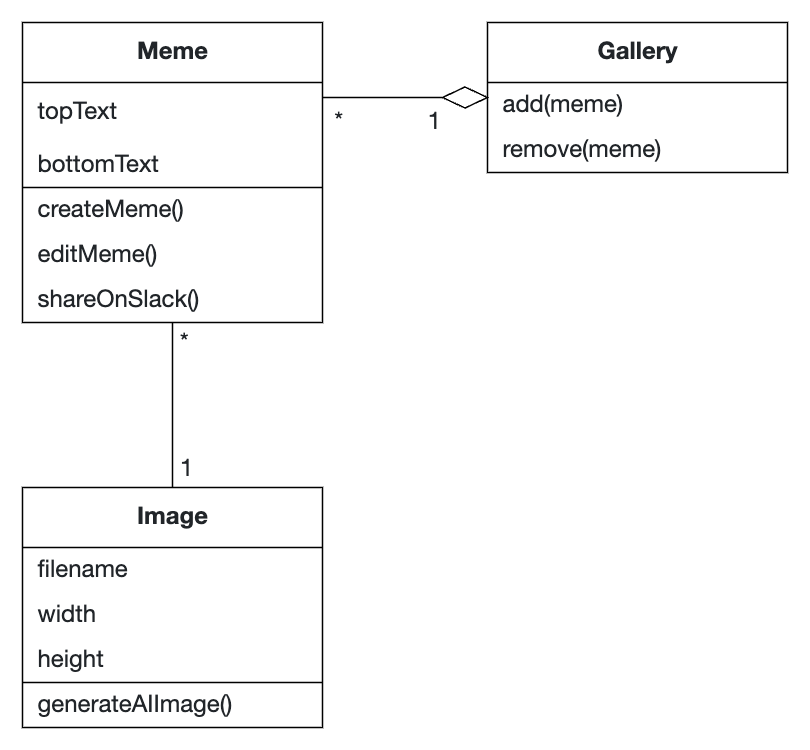
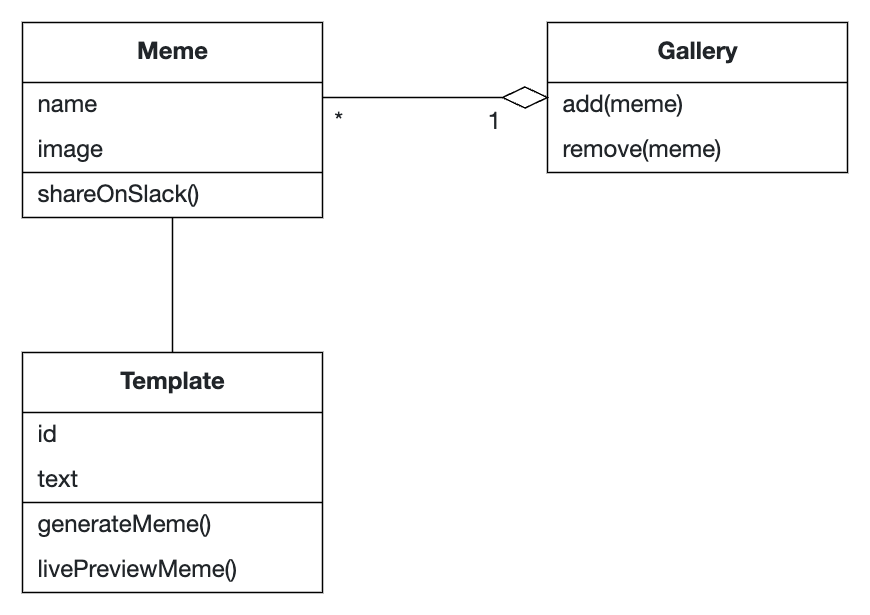
update problem statement

Changed region(s): [[0.0, 0.0, 0.9877, 0.9886]]

diff --git a/README.md b/README.md
@@ -25,9 +25,13 @@ Until the deadline all of your PRs **need to be merged** and your final app **ne
 
 ## Problem Statement (max. 500 words)
 
-In the ipraktikum pre-course, participants seek engaging ways to enhance their learning experience and foster camaraderie within their cohort through humor and creativity. However, the process of generating entertaining content, such as memes, proves time-consuming and requires specialized skills in image editing software. Additionally, the absence of a centralized platform to save and retrieve created memes complicates the process, leading to frustration and disengagement among participants.
+In the ipraktikum pre-course, participants seek engaging ways to enhance their learning experience and foster camaraderie within their cohort through humor and creativity. 
+However, the process of generating entertaining content, such as memes, proves time-consuming and requires specialized skills in image editing software.
+Additionally, the absence of a centralized platform to save and retrieve created memes complicates the process, leading to frustration and disengagement among participants.
 
-To adress these challenges, I, as a participant of the iPraktikum, want to have an iOS application that allows me to easily create memes and share them via Slack, providing users with a seamless and enjoyable experience during the pre-course. The app streamlines meme creation, facilitate storage and retrieval of generated content. As a user I want to be able to create memes from uploaded images, view a gallery of previously generated memes, save memes to the phone gallery, and optional share it on slack with a single button.
+To adress these challenges, I, as a participant of the iPraktikum, want to have an iOS application that allows me to easily create memes and share them via Slack, providing users with a seamless and enjoyable experience during the pre-course.
+The app streamlines meme creation, facilitate storage and retrieval of generated content. 
+As a user I want to be able to create memes from templates, view a gallery of previously generated memes, save memes to the phone gallery, and optionally share it on slack with a single button.
 
 Optionally streamlining meme generation using generative AI would be a very helpful feature so I can use less of my mental capacity to create memes.
 
@@ -39,15 +43,14 @@ As a student, I need an application to help me create and share memes.
 
 I want to be able to:
 
-- 🎨 ...create Memes by being able to upload and edit images to generate memes out of them.
+- 😄 ...browse meme templates and select them
+- 🎨 ...create Memes from templates
 - 🖼 ...view previously generated memes in a Gallery.
 - 💾 ...save memes to my phone image gallery.
 
 Optionally it would be good for me to be able to:
-- 🤖 ...generate images using a ML model for future use in memes, based on a prompt that I enter.
+- 🤖 ...generate texts using a ML model for future use in memes, based on a prompt that I enter.
 - 📤 ...post memes to Slack as images.
-
-We will be working with this app throughout the intro course!
 
 ### Non-Functional requirements
 - Constraint: App should have 5 +- 2 custom swift UI views
@@ -59,9 +62,12 @@ We will be working with this app throughout the intro course!
 
 ## Analysis
 
+<!-- https://apollon.ase.in.tum.de/WI1bEztvV2iahy5HMKUI?view=EDIT -->
 ![AOM](assets/aom.png)
 
 ## System Design
+
+![subsystem design](assets/subsystem.png)
 
 ## Product Backlog
 
